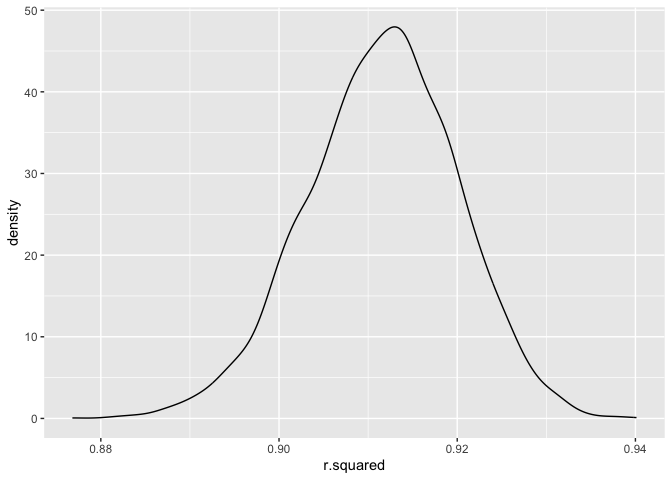
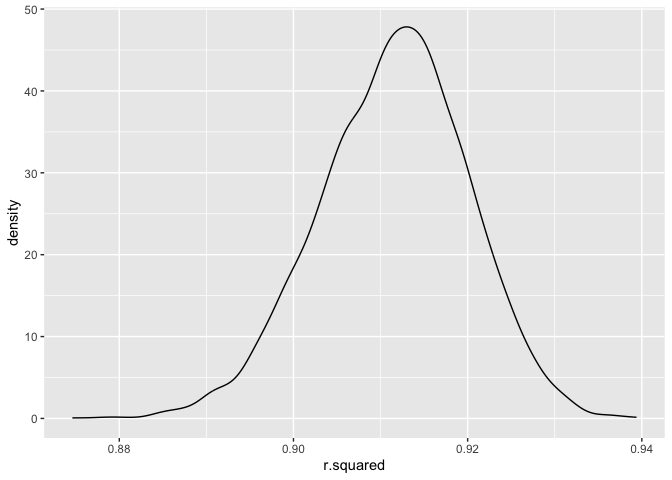
Finish problem 3

diff --git a/p8105_hw6_mm6410.md b/p8105_hw6_mm6410.md
@@ -66,7 +66,7 @@ weather_df |>
   mean()
 ```
 
-    ## [1] 0.9115373
+    ## [1] 0.9114777
 
 We can see from the density plot of the R-squared estimates that it is
 approximately normally distributed. The mean of the R-squared estimates
@@ -88,7 +88,7 @@ weather_df |>
   mean()
 ```
 
-    ## [1] 2.012824
+    ## [1] 2.013371
 
 Similarly, we can see from the density plot of the log($\hat{\beta}_{0}$
 \* $\hat{\beta}_{1}$) estimates that it is also approximately normally
@@ -123,7 +123,7 @@ weather_df |>
     ## # A tibble: 1 × 2
     ##   ci_low ci_up
     ##    <dbl> <dbl>
-    ## 1   1.96  2.06
+    ## 1   1.97  2.06
 
 The 95% CI for the r-squared and log of the estimated intercept \*
 slope:
@@ -257,3 +257,153 @@ birthweight_df =
     ## 
     ## ℹ Use `spec()` to retrieve the full column specification for this data.
     ## ℹ Specify the column types or set `show_col_types = FALSE` to quiet this message.
+
+Doing some exploratory analysis of different variables:
+
+``` r
+birthweight_df |> 
+  ggplot(aes(x = gaweeks, y = bwt)) +
+  geom_point(alpha = 0.5)
+```
+
+![](p8105_hw6_mm6410_files/figure-gfm/unnamed-chunk-13-1.png)<!-- -->
+
+``` r
+# generally, as GA increases, birthweight increases and then clusters around 40 weeks.
+
+birthweight_df |> 
+  ggplot(aes(x = ppbmi, y = bwt)) +
+  geom_point()
+```
+
+![](p8105_hw6_mm6410_files/figure-gfm/unnamed-chunk-13-2.png)<!-- -->
+
+``` r
+birthweight_df |> 
+  ggplot(aes(x = smoken, y = bwt)) +
+  geom_point()
+```
+
+![](p8105_hw6_mm6410_files/figure-gfm/unnamed-chunk-13-3.png)<!-- -->
+
+``` r
+birthweight_df |> count(smoken) # there were quite a number of people who smoked during pregnancy in this dataset
+```
+
+    ## # A tibble: 33 × 2
+    ##    smoken     n
+    ##     <dbl> <int>
+    ##  1  0      2552
+    ##  2  0.125    39
+    ##  3  0.75     38
+    ##  4  1       142
+    ##  5  2       141
+    ##  6  3       144
+    ##  7  4       110
+    ##  8  5       128
+    ##  9  6        61
+    ## 10  7        51
+    ## # ℹ 23 more rows
+
+Based on my exploratory analysis, I chose to create a model using:
+
+- outcome: birthweight
+- Predictor variables: gestational age (`gaweeks`), mother’s
+  pre-pregnancy BMI (`ppbmi`), mother’s age at delivery (`momage`), and
+  the average number of cigarettes smoked per day during pregnancy.
+- I chose these predictors as they all may directly influence a baby’s
+  birthweight.
+
+``` r
+bwt_model =
+  birthweight_df |> 
+    lm(bwt ~ gaweeks + ppbmi + momage + smoken, data = _)
+
+bwt_model |> 
+  broom::tidy() |> 
+  knitr::kable(digits = 3)
+```
+
+| term        | estimate | std.error | statistic | p.value |
+|:------------|---------:|----------:|----------:|--------:|
+| (Intercept) |   52.464 |   101.197 |     0.518 |   0.604 |
+| gaweeks     |   65.473 |     2.230 |    29.357 |   0.000 |
+| ppbmi       |   12.266 |     2.203 |     5.568 |   0.000 |
+| momage      |   12.020 |     1.824 |     6.592 |   0.000 |
+| smoken      |   -6.750 |     0.946 |    -7.135 |   0.000 |
+
+``` r
+birthweight_df = 
+  birthweight_df |> 
+  add_predictions(bwt_model) |>  
+  add_residuals(bwt_model)
+
+ggplot(birthweight_df, aes(x = pred, y = resid)) + 
+  geom_point(alpha = 0.5) + 
+  geom_smooth(method = "lm", se = FALSE, color = "red")
+```
+
+    ## `geom_smooth()` using formula = 'y ~ x'
+
+![](p8105_hw6_mm6410_files/figure-gfm/unnamed-chunk-15-1.png)<!-- -->
+
+When plotting the residuals vs predicted values, we see that there is a
+cluster around 3200. This could mean that I am missing variables from my
+model.
+
+``` r
+bwt_model_cv =
+  crossv_mc(birthweight_df, 200) |> 
+  mutate(
+    train = map(train, as_tibble),
+    test = map(test, as_tibble)
+  )
+
+bwt_model_cv =
+  bwt_model_cv |> 
+    mutate(
+      main_effects = map(train, \(df) lm(bwt ~ gaweeks + blength, data = df)),
+      model_interaction = map(train, \(df) lm(bwt ~ bhead * blength * babysex, data = df)),
+      my_model = map(train, \(df) lm(bwt ~ gaweeks + ppbmi + smoken, data = df))
+    ) |> 
+  mutate(
+    rmse_main_effects = map2_dbl(main_effects, test, \(mod, df) rmse(model = mod, data = df)),
+    rmse_interactions = map2_dbl(model_interaction, test, \(mod, df) rmse(model = mod, data = df)),
+    rmse_my_model = map2_dbl(my_model, test, \(mod, df) rmse(model = mod, data = df)))
+```
+
+``` r
+bwt_model_cv |> 
+  select(starts_with("rmse")) |> 
+  pivot_longer(
+    everything(),
+    names_to = "model", 
+    values_to = "rmse",
+    names_prefix = "rmse_"
+  ) |> 
+  mutate(model = fct_inorder(model)) |> 
+  ggplot(aes(x = model, y = rmse, fill = model)) + 
+  geom_violin(trim = FALSE, alpha = 0.7) +
+  geom_boxplot(width = 0.1, outlier.shape = NA, alpha = 0.5) +
+  labs(
+    title = "Comparison of RMSE Across Models",
+    x = "Model",
+    y = "RMSE"
+  ) +
+  theme_minimal() +
+  theme(
+    legend.position = "none",
+    axis.text.x = element_text(angle = 45, hjust = 1)
+  )
+```
+
+![](p8105_hw6_mm6410_files/figure-gfm/unnamed-chunk-17-1.png)<!-- -->
+
+Comparing the RMSE across all models, my model has a much higher root
+mean square errors. The reason for this might be that the predictors I
+chose to include in the model might not as directly related to
+birthweight compared to the other models leading to a higher prediction
+error. For example, the model with head circumference, length, sex, and
+all interactions between these 3 predictors had the lowest RMSE. These
+predictors are all generally related to one another in some way and
+would be closely related to the baby’s birthweight.
